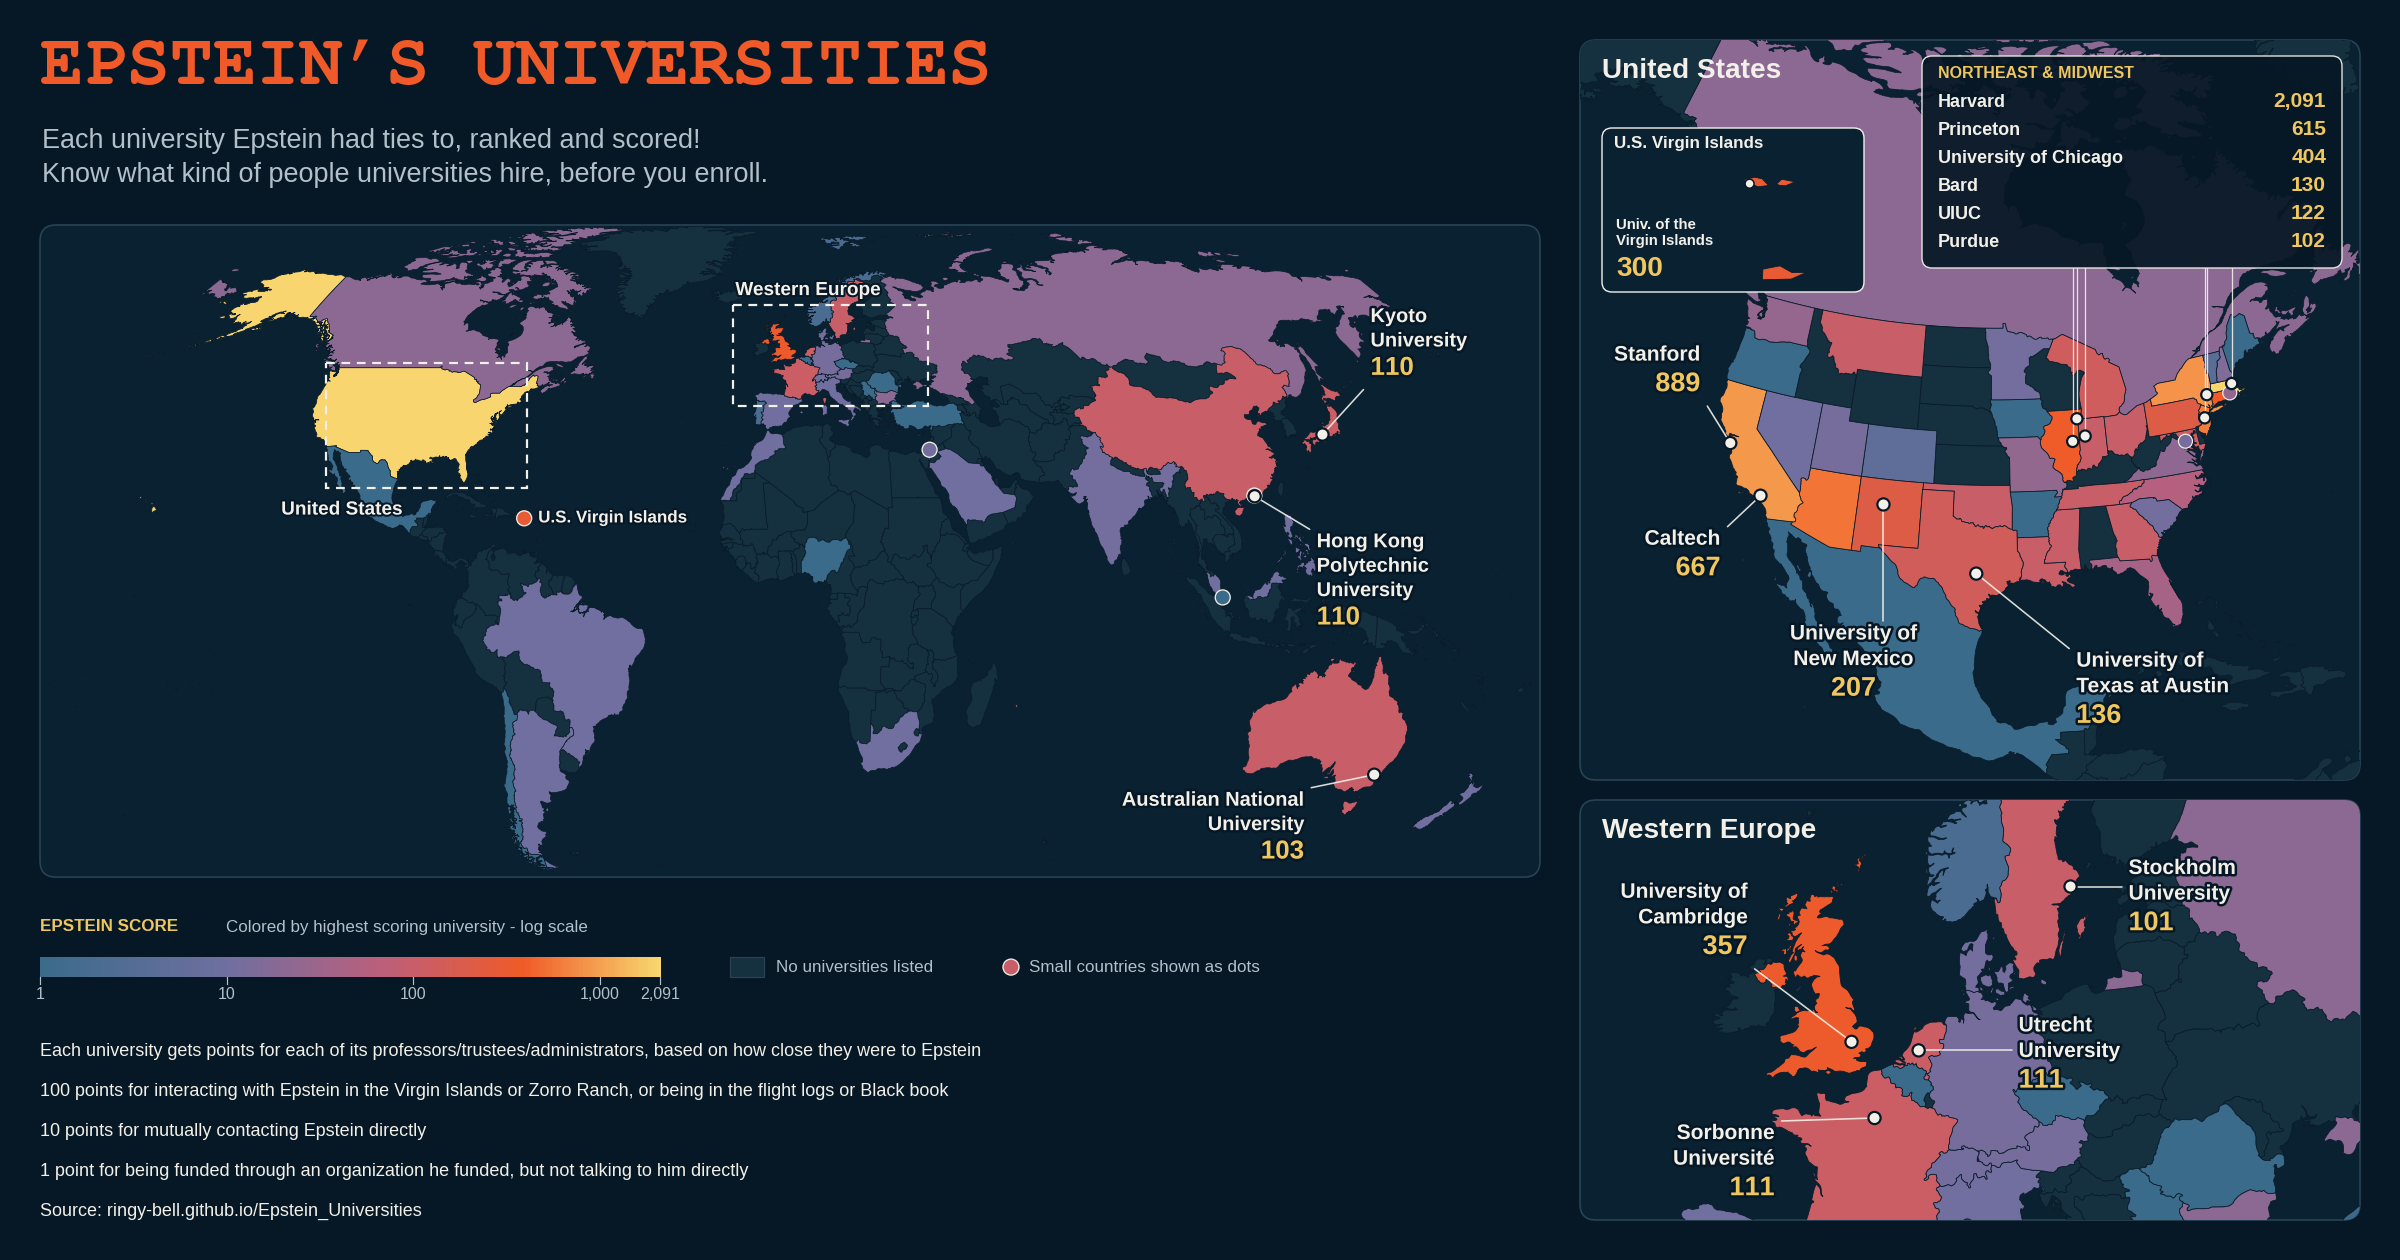
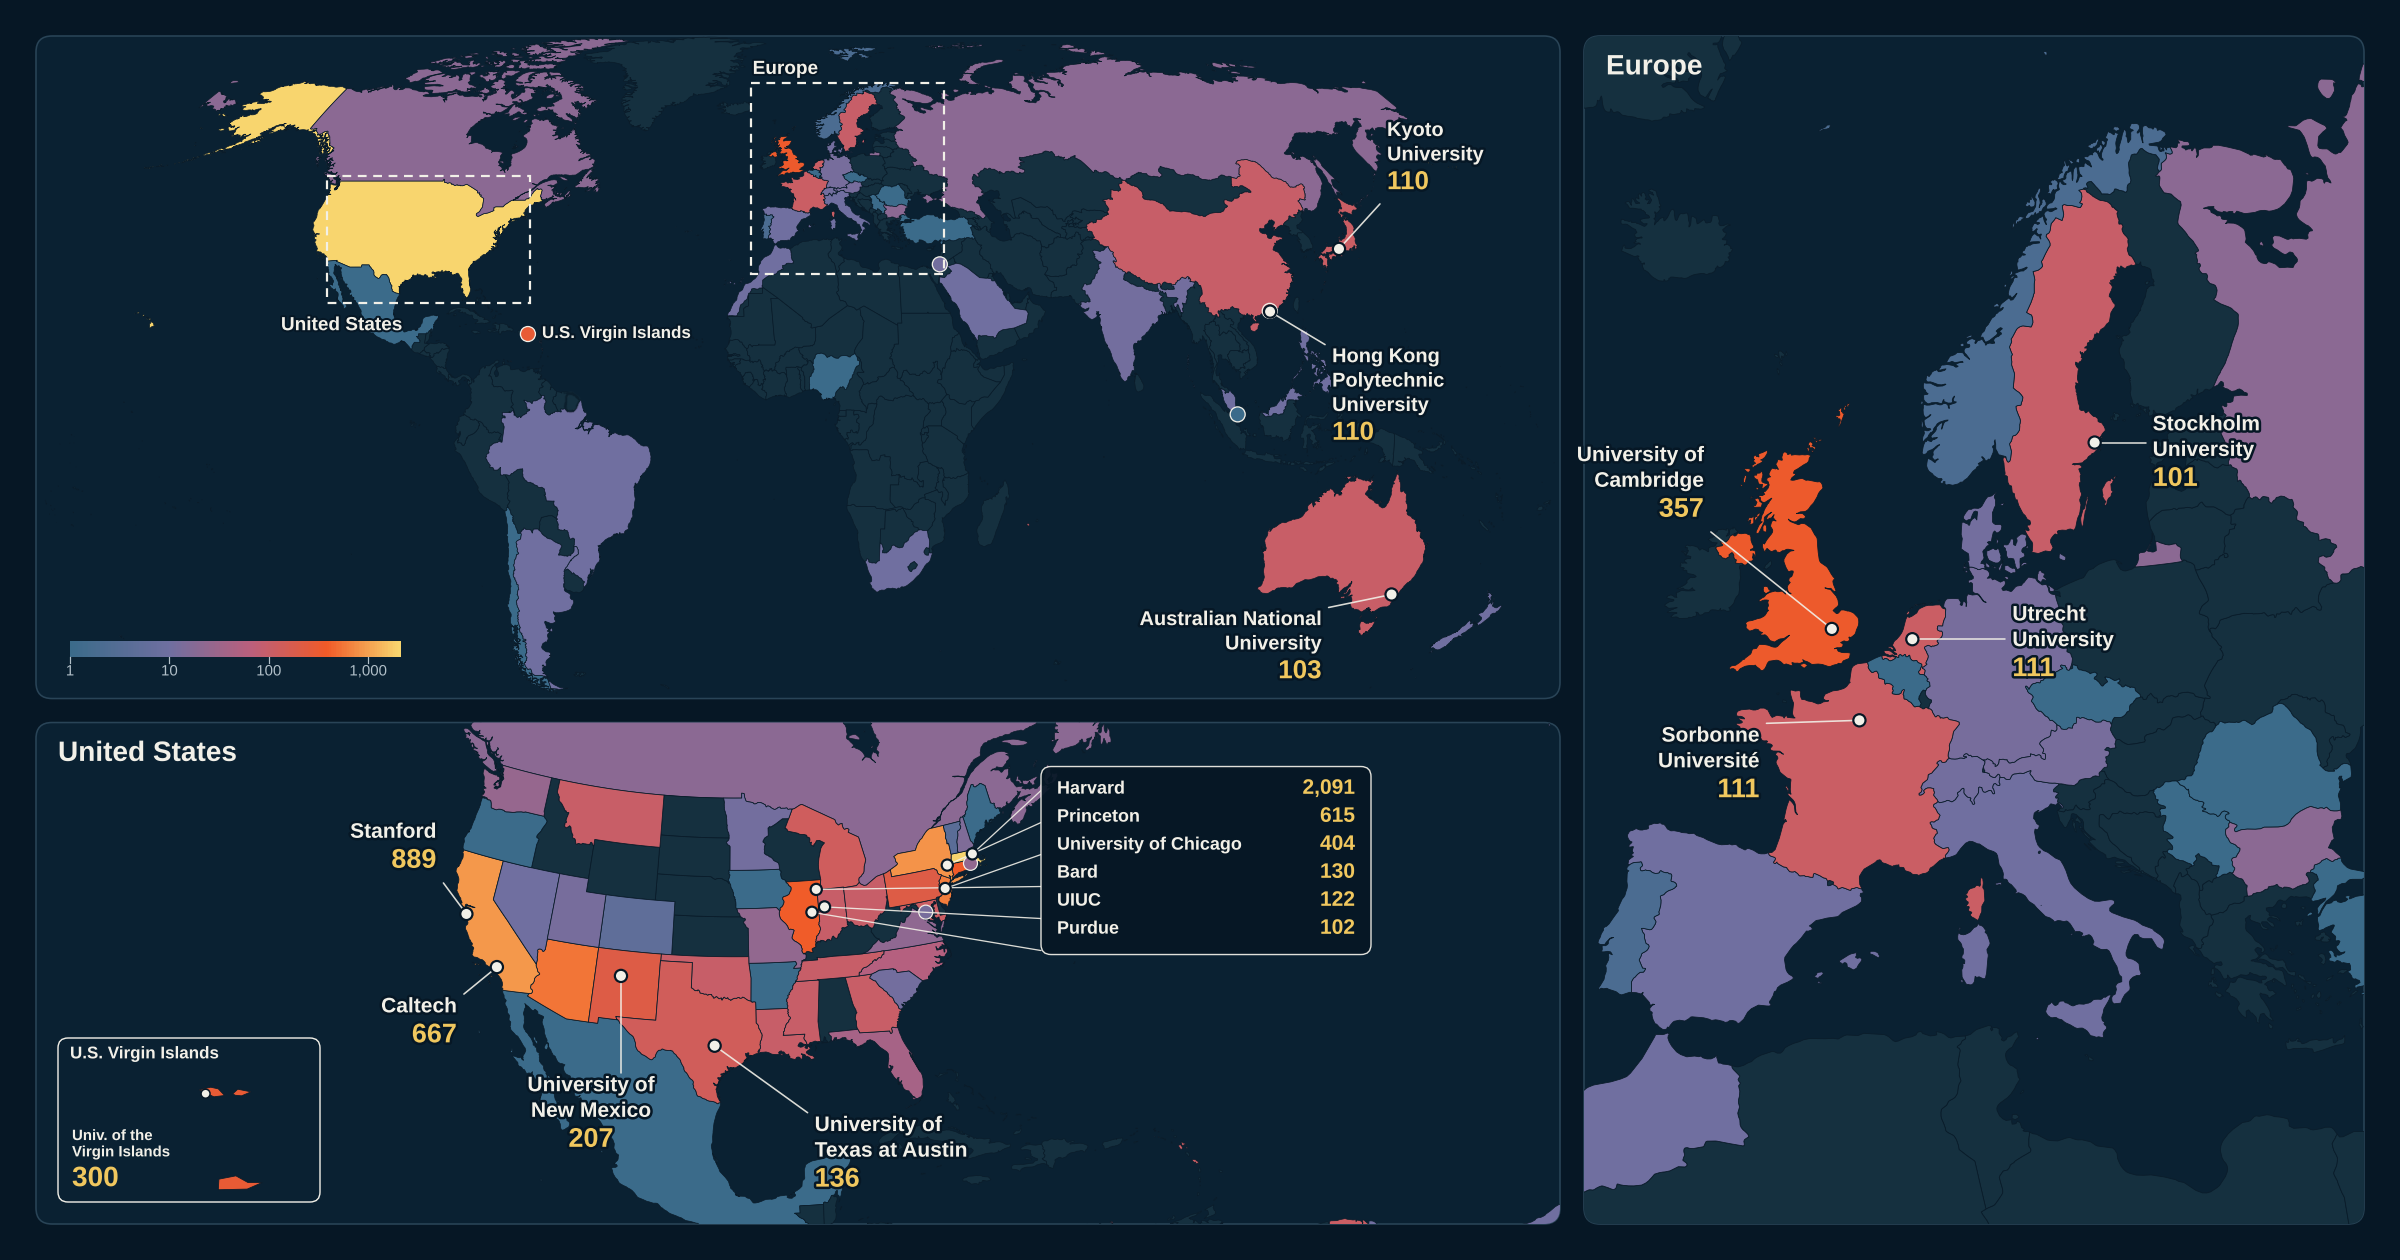
Added map to site.

diff --git a/index.html b/index.html
@@ -29,7 +29,7 @@
 </head>
 <body>
   <div class="page-shell">
-    <header class="site-header">
+<header class="site-header">
       <a class="brand" href="?view=universities" aria-label="Epstein's Universities home">
         <span class="brand-mark" aria-hidden="true">
           <svg viewBox="0 0 44 44" fill="none" role="img" aria-label="Sciencey Logo"><g stroke="currentColor" stroke-width="1.55"><ellipse cx="22" cy="22" rx="18" ry="7.2"/><ellipse cx="22" cy="22" rx="18" ry="7.2" transform="rotate(60 22 22)"/><ellipse cx="22" cy="22" rx="18" ry="7.2" transform="rotate(120 22 22)"/></g><path d="M22 17.5 26.5 22 22 26.5 17.5 22 22 17.5Z" fill="currentColor"/></svg>
@@ -51,6 +51,16 @@
       <a href="#data-notes">Thanks</a>
       <a href="#site-footer">Footer &amp; sources</a>
     </nav>
+
+    <div class="hero-image" style="width:100%; margin:1.5rem 0;">
+      <img
+        src="epstein-score-map-fixed.png"
+        alt="Epstein's Universities"
+        width="1200"
+        height="630"
+        style="display:block; width:100%; height:auto; aspect-ratio:1200 / 630; object-fit:cover; border-radius:12px;"
+      >
+    </div>
 
     <main>
       <section class="stats-grid" aria-label="About this dataset" id="overview">
